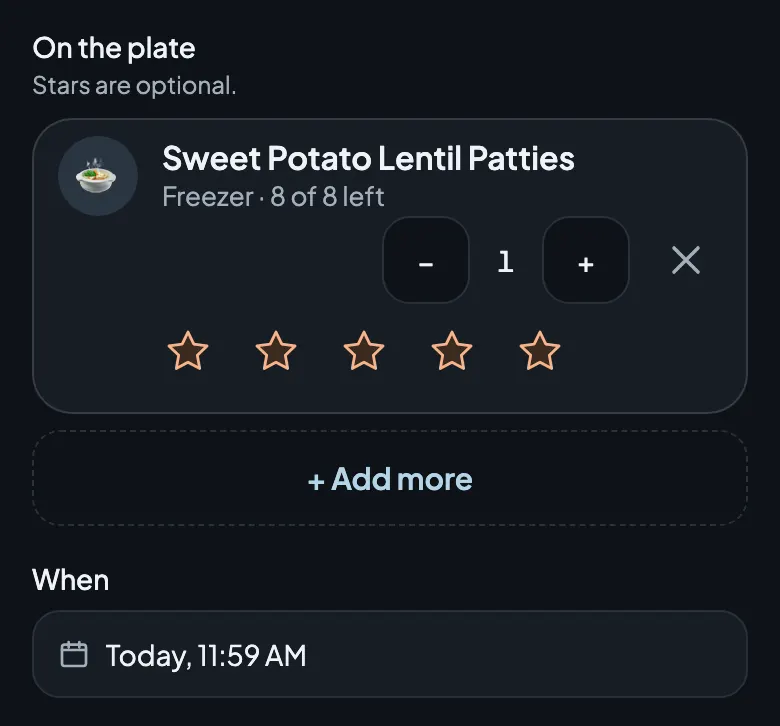
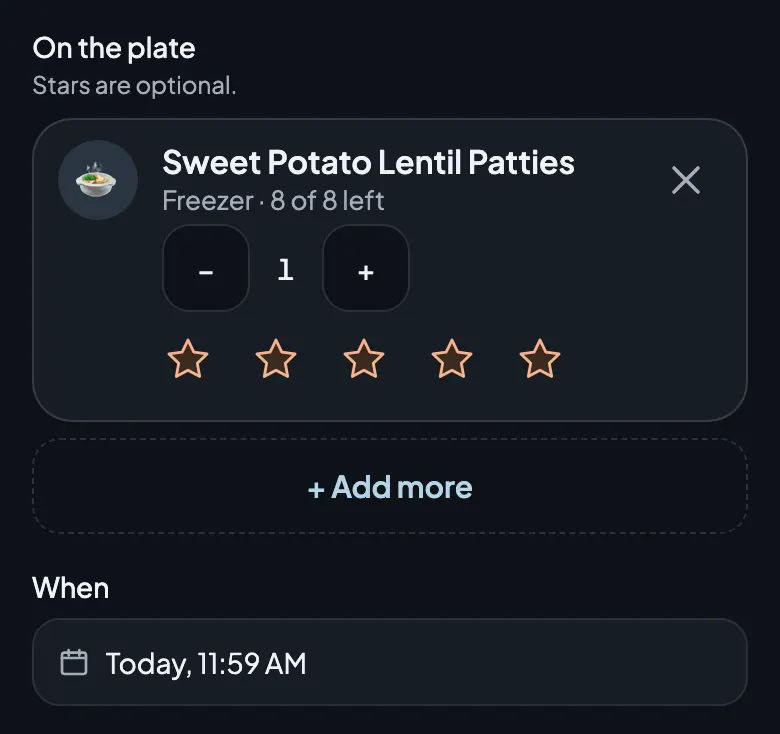
Plate: a container's × stays on the title's line; the stepper drops under the name when narrow (ledger 985)
ContainerItemRow now uses FreshItem's grid (40px plate | name | 44px ×), so
× is always the last column of the first line, in line with foods' and
recipes' ×, at every width. The name column wraps: the stepper sits beside
× while the title keeps 7rem (one line from ~410px wide, e.g. 430), else it
alone drops under the name, where a food's stars go (320/375/390). Ran-out
rows (× + flag) and saved-meal rows use the same frame.

Serve guide images serve-1/2/3 (+dark) retaken the 962 way; each wrapped
container row is 4px taller, so the serve-3-stars pin is [780, 840].

diff --git a/client/src/features/plate/PlateItemRow.tsx b/client/src/features/plate/PlateItemRow.tsx
@@ -330,8 +330,10 @@ export function WarningGlyph() {
  * stepper and stars, and "Add to storage" for a new batch (CD-Ran-Out-Add). The stepper
  * stays between 1 and what the container can give (the reducer clamps, as
  * Serve always did); a planned one with less left than planned says so.
- * Where the title would get too narrow, the controls wrap below it, at the
- * right.
+ * Laid out on FreshItem's grid (ledger 985): × is always the last 44px
+ * column of the first line, where foods and recipes have theirs. The stepper
+ * sits beside it while the title keeps 7rem; narrower, the stepper alone
+ * drops under the name, where a food's stars go.
  */
 export function ContainerItemRow({ entry, dispatch, disabled, planning, planWhen, onAddToStorage, offline }: RowProps<ContainerEntry>) {
   const key = entryKey(entry);
@@ -353,17 +355,17 @@ export function ContainerItemRow({ entry, dispatch, disabled, planning, planWhen
 
   return (
     <li className={ITEM}>
-      <div className="flex flex-wrap items-center gap-x-3">
-        <ItemPlate plates={partPlates(entry.parts)} size={40} />
-        <div className="min-w-32 flex-1">
-          <p className={TITLE}>{title}</p>
-          <p className={DETAIL}>
-            {entry.container ? (gone ? LOCATION_LABEL[entry.container.location] : servePartHint(entry.container)) : "From storage"}
-          </p>
-        </div>
-        <div className="ml-auto flex shrink-0 items-center gap-1.5">
+      <div className="grid grid-cols-[40px_minmax(0,1fr)_44px] items-start gap-x-3">
+        <ItemPlate plates={partPlates(entry.parts)} size={40} className="mt-0.5" />
+        <div className="flex flex-wrap items-center gap-x-3">
+          <div className="flex min-h-11 grow basis-28 flex-col justify-center">
+            <p className={TITLE}>{title}</p>
+            <p className={DETAIL}>
+              {entry.container ? (gone ? LOCATION_LABEL[entry.container.location] : servePartHint(entry.container)) : "From storage"}
+            </p>
+          </div>
           {servings !== null && (
-            <div className="flex items-center gap-1.5" role="group" aria-label={`Servings: ${title}`}>
+            <div className="flex shrink-0 items-center gap-1.5" role="group" aria-label={`Servings: ${title}`}>
               <button
                 type="button"
                 aria-label="Decrease servings"
@@ -390,16 +392,16 @@ export function ContainerItemRow({ entry, dispatch, disabled, planning, planWhen
               </button>
             </div>
           )}
-          <button
-            type="button"
-            aria-label={`Remove ${title}`}
-            disabled={disabled}
-            onClick={() => dispatch({ type: "remove", key })}
-            className={REMOVE_BUTTON}
-          >
-            <CloseGlyph />
-          </button>
         </div>
+        <button
+          type="button"
+          aria-label={`Remove ${title}`}
+          disabled={disabled}
+          onClick={() => dispatch({ type: "remove", key })}
+          className={REMOVE_BUTTON}
+        >
+          <CloseGlyph />
+        </button>
       </div>
       {short !== null && (
         <p className={RUN_OUT_LINE}>

diff --git a/client/src/features/plate/PlateItemRow.test.ts b/client/src/features/plate/PlateItemRow.test.ts
@@ -283,6 +283,26 @@ describe("a container", () => {
     expect(actions).toEqual([{ type: "remove", key: `storage:${MUFFINS.id}` }]);
   });
 
+  it("× is FreshItem's last 44px column on the first line; the stepper wraps under the name below a 7rem title (ledger 985)", () => {
+    const grid = '<div class="grid grid-cols-[40px_minmax(0,1fr)_44px] items-start gap-x-3">';
+    const name = '<div class="flex flex-wrap items-center gap-x-3"><div class="flex min-h-11 grow basis-28 flex-col justify-center"><p class="font-semibold';
+    const out = html(containerEntry(MUFFINS));
+    // Plate, then the name column (title block, then the stepper in the same wrapping row), then × as the grid's third child.
+    expect(out).toContain(grid);
+    expect(out).toContain(name);
+    expect(out).toMatch(
+      /6 left<\/p><\/div><div class="flex shrink-0 items-center gap-1\.5" role="group" aria-label="Servings: Broccoli Cheese Egg Muffins">.*aria-label="Increase servings"[^>]*>\+<\/button><\/div><\/div><button type="button" aria-label="Remove Broccoli Cheese Egg Muffins" class="[^"]*h-11 w-11[^"]*"><svg/,
+    );
+    // Same frame when ran out (no stepper), kept on a saved meal, and planned.
+    for (const entry of [containerEntry({ ...MUFFINS, servingsLeft: 0 }), { ...containerEntry(MUFFINS), savedServings: 1 }]) {
+      expect(html(entry)).toContain(grid);
+      expect(html(entry)).toMatch(/<\/p><\/div><\/div><button type="button" aria-label="Remove Broccoli Cheese Egg Muffins"|<\/button><\/div><\/div><button type="button" aria-label="Remove Broccoli Cheese Egg Muffins"/);
+    }
+    expect(html(containerEntry({ ...MUFFINS, servingsLeft: 0 }))).toMatch(/0 of 6 left<\/p><\/div><\/div><button type="button" aria-label="Remove /);
+    expect(html(containerEntry(CONTAINER), true)).toContain(grid);
+    expect(html(containerEntry(CONTAINER), true)).toContain(name);
+  });
+
   it("holding several: a line per food (24px plate, name, stars) and the two-plate mark (CD-Log-Meal)", () => {
     const out = html(containerEntry(CONTAINER));
     expect(out).toContain(">Broccoli, Carrot (deleted)</p>");
@@ -378,13 +398,6 @@ describe("a container", () => {
     expect(html(containerEntry({ ...MUFFINS, servingsLeft: 1 }))).not.toContain("Only");
     // Planning never says it.
     expect(html(short, true)).not.toContain("Only");
-  });
-
-  it("lets the controls wrap under a title that would get narrower than 8rem", () => {
-    const out = html(containerEntry(MUFFINS));
-    expect(out).toContain('<div class="flex flex-wrap items-center gap-x-3">');
-    expect(out).toContain('<div class="min-w-32 flex-1">');
-    expect(out).toContain('<div class="ml-auto flex shrink-0 items-center gap-1.5">');
   });
 });
 

diff --git a/client/src/features/safety/content.test.ts b/client/src/features/safety/content.test.ts
@@ -345,12 +345,13 @@ describe("dark guide screenshots", () => {
   // Ledger 962: the plate-page shots were retaken on new crops (light and dark
   // the same size); recipe-5-saved kept its crop, located against the old
   // light image, for 953's calendar button. Ledger 980 retook serve-1..3
-  // (every container row now has ×, so its stepper wraps under the title).
+  // (every container row now has ×, so its stepper wraps under the title);
+  // ledger 985 again (× back on the title's line, the stepper under the name).
   it("keeps the 962 retakes at their shot size", () => {
     const expected: Record<string, number[]> = {
       "meal-2-stars": [780, 478],
       "meal-3-when": [780, 1074],
-      "serve-3-stars": [780, 824],
+      "serve-3-stars": [780, 840],
       "serve-4-notes": [780, 470],
       "recipe-5-saved": [780, 1416],
     };
